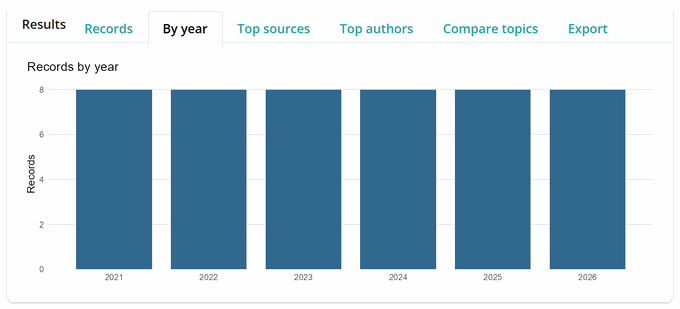
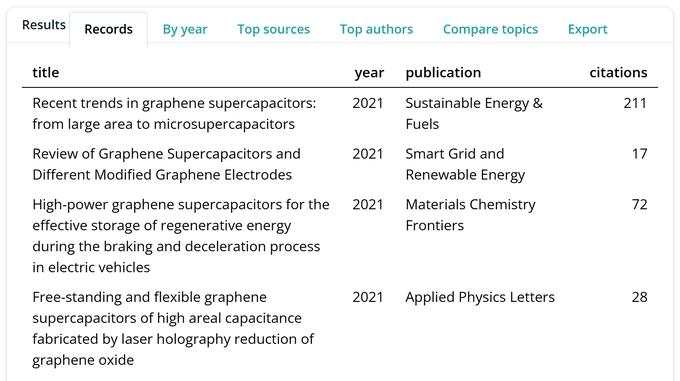
Deploying to gh-pages from @ pablobernabeu/scopusflow@21ac3db10a830e9ffe7ff9f6d52d5e032fd93961 🚀

diff --git a/articles/using-the-app.html b/articles/using-the-app.html
@@ -28,7 +28,7 @@
 
     <a class="navbar-brand me-2" href="../index.html">scopusflow</a>
 
-    <small class="nav-text text-muted me-auto" data-bs-toggle="tooltip" data-bs-placement="bottom" title="">0.2.1</small>
+    <small class="nav-text text-muted me-auto" data-bs-toggle="tooltip" data-bs-placement="bottom" title="">0.3.0</small>
 
 
     <button class="navbar-toggler" type="button" data-bs-toggle="collapse" data-bs-target="#navbar" aria-controls="navbar" aria-expanded="false" aria-label="Toggle navigation">
@@ -94,13 +94,7 @@
      left on, so they need no key and no network. Recapture them whenever the
      app's layout changes: unlike the figures in the other articles, which are
      drawn when the vignette is knitted, a static image of an interface drifts
-     silently.
-
-     OUTSTANDING: app-terminal.png and app-results.png still show the demo mode
-     as it was before it drew its records from the bundled example_records
-     corpus, so they carry the old size note and a row of identical by-year
-     bars. The alt text below describes the current behaviour; recapture both
-     images before the next site build. -->
+     silently. -->
 <p>Not every search starts in an editor. <code><a href="../reference/run_app.html">run_app()</a></code> opens a
 local Shiny app that drives the whole scopusflow workflow through a
 browser tab, from describing a search to exporting the records, without
@@ -183,12 +177,12 @@ stops the run cleanly. Under the surface the app builds a
 turned on, so an interrupted or quota-limited run picks up where it left
 off.</p>
 <div class="float">
-<img src="figures/app-terminal.png" alt="The Retrieval panel part-way through a demo-mode harvest. A note reads “Demo plan: 6 year-cells; would draw 57 records from the bundled corpus”, a label reads “Fetching cell 4 of 6” above a progress bar at 50%, and the expanded Live terminal below shows four lines, one per completed cell, each reading “Cell n/6: demo records for graphene supercapacitor” with the year."><div class="figcaption">The Retrieval panel part-way through a demo-mode
+<img src="figures/app-terminal.png" alt="The Retrieval panel part-way through a demo-mode harvest. A note reads “Demo plan: 6 year-cells; would draw 57 records from the bundled corpus”, a label reads “Fetching cell 4 of 6” above a progress bar at 50%, and the expanded Live terminal below shows four lines, one for each cell the run has reached, each reading “Cell n/6: demo records for graphene supercapacitor” with the year."><div class="figcaption">The Retrieval panel part-way through a demo-mode
 harvest. A note reads “Demo plan: 6 year-cells; would draw 57 records
 from the bundled corpus”, a label reads “Fetching cell 4 of 6” above a
 progress bar at 50%, and the expanded Live terminal below shows four
-lines, one per completed cell, each reading “Cell n/6: demo records for
-graphene supercapacitor” with the year.</div>
+lines, one for each cell the run has reached, each reading “Cell n/6:
+demo records for graphene supercapacitor” with the year.</div>
 </div>
 </div>
 <div class="section level2">
@@ -225,11 +219,14 @@ and Top authors tally the most frequent of each with
 figure is drawn by the same library functions you would call from a
 script, so the app shows you nothing you could not reproduce.</p>
 <div class="float">
-<img src="figures/app-results.png" alt="The Results panel with tabs for Records, By year, Top sources, Top authors, Compare topics and Export. The By year tab is open, showing a bar chart of records per year from 2021 to 2024 drawn from the demo harvest, the bars varying with the number of papers the bundled corpus holds for each year."><div class="figcaption">The Results panel with tabs for Records, By
-year, Top sources, Top authors, Compare topics and Export. The By year
-tab is open, showing a bar chart of records per year from 2021 to 2024
-drawn from the demo harvest, the bars varying with the number of papers
-the bundled corpus holds for each year.</div>
+<img src="figures/app-results.png" alt="The Results panel with tabs for Records, By year, Top sources, Top authors, Compare topics and Export. The Records tab is open, showing the first rows of a table of titles, years, journals and citation counts from the demo harvest. The first row reads “Recent trends in graphene supercapacitors: from large area to microsupercapacitors”, published in Sustainable Energy &amp; Fuels in 2021 with 211 citations, and the rows below it are likewise real articles from the bundled corpus."><div class="figcaption">The Results panel with tabs for Records, By
+year, Top sources, Top authors, Compare topics and Export. The Records
+tab is open, showing the first rows of a table of titles, years,
+journals and citation counts from the demo harvest. The first row reads
+“Recent trends in graphene supercapacitors: from large area to
+microsupercapacitors”, published in Sustainable Energy &amp; Fuels in
+2021 with 211 citations, and the rows below it are likewise real
+articles from the bundled corpus.</div>
 </div>
 </div>
 <div class="section level2">

diff --git a/news/index.html b/news/index.html
@@ -7,7 +7,7 @@
 
     <a class="navbar-brand me-2" href="../index.html">scopusflow</a>
 
-    <small class="nav-text text-muted me-auto" data-bs-toggle="tooltip" data-bs-placement="bottom" title="">0.2.1</small>
+    <small class="nav-text text-muted me-auto" data-bs-toggle="tooltip" data-bs-placement="bottom" title="">0.3.0</small>
 
 
     <button class="navbar-toggler" type="button" data-bs-toggle="collapse" data-bs-target="#navbar" aria-controls="navbar" aria-expanded="false" aria-label="Toggle navigation">
@@ -51,6 +51,24 @@
       <small>Source: <a href="https://github.com/pablobernabeu/scopusflow/blob/main/NEWS.md" class="external-link"><code>NEWS.md</code></a></small>
     </div>
 
+    <div class="section level2">
+<h2 class="pkg-version" data-toc-text="0.3.0" id="scopusflow-030">scopusflow 0.3.0<a class="anchor" aria-label="anchor" href="#scopusflow-030"></a></h2>
+<div class="section level3">
+<h3 id="the-bundled-example-records-0-3-0">The bundled example records<a class="anchor" aria-label="anchor" href="#the-bundled-example-records-0-3-0"></a></h3>
+<ul><li>
+<code>example_records</code> is now a worked example harvest of 138 real journal articles on graphene supercapacitors published between 2015 and 2024, carrying their real titles, DOIs, source titles, first authors and citation counts. It replaces the six invented records shipped previously.</li>
+<li>The records are not a ‘Scopus’ harvest and are not described as one. The Elsevier API terms do not permit redistributing retrieved records, so they come from OpenAlex, whose metadata is released under CC0, reshaped into the schema [<code><a href="../reference/scopus_fetch.html">scopus_fetch()</a></code>] returns. The reasoning is recorded in the design notes.</li>
+<li>The harvest is complete rather than sampled, so the rows per year are the real publications per year for that query. Eleven records carry no DOI and two no source title, kept as they arrive because a real harvest has such gaps.</li>
+<li>
+<code>scopus_id</code> is empty throughout, these records not having come from ‘Scopus’, so de-duplication falls back to the DOI as it does for any record whose identifier is missing.</li>
+</ul></div>
+<div class="section level3">
+<h3 id="documentation-0-3-0">Documentation<a class="anchor" aria-label="anchor" href="#documentation-0-3-0"></a></h3>
+<ul><li>Every vignette and example runs on that corpus, paired with the key-gated live call a reader would actually write, and the figures quoted in the prose were recomputed against the new data.</li>
+<li>The demo mode of <code><a href="../reference/run_app.html">run_app()</a></code> draws on the same corpus, so a first look at the app shows real articles rather than invented rows.</li>
+<li>The parser fixture in <code>inst/extdata</code> moves onto the reserved 10.5555 example prefix. It previously paired genuine, resolving DOIs with invented titles and authors, so a reader who checked one found a real paper mislabelled.</li>
+</ul></div>
+</div>
     <div class="section level2">
 <h2 class="pkg-version" data-toc-text="0.2.1" id="scopusflow-021">scopusflow 0.2.1<a class="anchor" aria-label="anchor" href="#scopusflow-021"></a></h2>
 <p>A documentation release. The vignettes now demonstrate several features that 0.2.0 shipped but did not show.</p>

diff --git a/articles/about.html b/articles/about.html
@@ -28,7 +28,7 @@
 
     <a class="navbar-brand me-2" href="../index.html">scopusflow</a>
 
-    <small class="nav-text text-muted me-auto" data-bs-toggle="tooltip" data-bs-placement="bottom" title="">0.2.1</small>
+    <small class="nav-text text-muted me-auto" data-bs-toggle="tooltip" data-bs-placement="bottom" title="">0.3.0</small>
 
 
     <button class="navbar-toggler" type="button" data-bs-toggle="collapse" data-bs-target="#navbar" aria-controls="navbar" aria-expanded="false" aria-label="Toggle navigation">
@@ -96,14 +96,14 @@
 <p>If you use scopusflow in published work, please cite it.</p>
 <blockquote>
 <p>Bernabeu, P. (2026). scopusflow: A reproducible workflow layer for
-‘Scopus’ bibliographic searches. R package version 0.2.1. <a href="https://doi.org/10.5281/zenodo.21252669" class="external-link uri">https://doi.org/10.5281/zenodo.21252669</a></p>
+‘Scopus’ bibliographic searches. R package version 0.3.0. <a href="https://doi.org/10.5281/zenodo.21252669" class="external-link uri">https://doi.org/10.5281/zenodo.21252669</a></p>
 </blockquote>
 <div class="citation-bibtex">
 <pre id="scopusflow-bibtex"><code>@Manual{scopusflow,
   title  = {{scopusflow}: A reproducible workflow layer for '{Scopus}' bibliographic searches},
   author = {Pablo Bernabeu},
   year   = {2026},
-  note   = {R package version 0.2.1},
+  note   = {R package version 0.3.0},
   doi    = {10.5281/zenodo.21252669},
   url    = {https://doi.org/10.5281/zenodo.21252669},
 }</code></pre>
@@ -111,7 +111,7 @@
 <button type="button" class="btn btn-primary btn-sm" onclick="scopusflowCopyBibtex(this)">
 Copy BibTeX
 </button>
-<a class="btn btn-outline-primary btn-sm" download="scopusflow.bib" href="data:application/x-bibtex;charset=utf-8,%40Manual%7Bscopusflow%2C%0A%20%20title%20%20%3D%20%7B%7Bscopusflow%7D%3A%20A%20reproducible%20workflow%20layer%20for%20%27%7BScopus%7D%27%20bibliographic%20searches%7D%2C%0A%20%20author%20%3D%20%7BPablo%20Bernabeu%7D%2C%0A%20%20year%20%20%20%3D%20%7B2026%7D%2C%0A%20%20note%20%20%20%3D%20%7BR%20package%20version%200.2.1%7D%2C%0A%20%20doi%20%20%20%20%3D%20%7B10.5281%2Fzenodo.21252669%7D%2C%0A%20%20url%20%20%20%20%3D%20%7Bhttps%3A%2F%2Fdoi.org%2F10.5281%2Fzenodo.21252669%7D%2C%0A%7D">Download
+<a class="btn btn-outline-primary btn-sm" download="scopusflow.bib" href="data:application/x-bibtex;charset=utf-8,%40Manual%7Bscopusflow%2C%0A%20%20title%20%20%3D%20%7B%7Bscopusflow%7D%3A%20A%20reproducible%20workflow%20layer%20for%20%27%7BScopus%7D%27%20bibliographic%20searches%7D%2C%0A%20%20author%20%3D%20%7BPablo%20Bernabeu%7D%2C%0A%20%20year%20%20%20%3D%20%7B2026%7D%2C%0A%20%20note%20%20%20%3D%20%7BR%20package%20version%200.3.0%7D%2C%0A%20%20doi%20%20%20%20%3D%20%7B10.5281%2Fzenodo.21252669%7D%2C%0A%20%20url%20%20%20%20%3D%20%7Bhttps%3A%2F%2Fdoi.org%2F10.5281%2Fzenodo.21252669%7D%2C%0A%7D">Download
 .bib</a>
 </p>
 </div>

diff --git a/authors.html b/authors.html
@@ -7,7 +7,7 @@
 
     <a class="navbar-brand me-2" href="index.html">scopusflow</a>
 
-    <small class="nav-text text-muted me-auto" data-bs-toggle="tooltip" data-bs-placement="bottom" title="">0.2.1</small>
+    <small class="nav-text text-muted me-auto" data-bs-toggle="tooltip" data-bs-placement="bottom" title="">0.3.0</small>
 
 
     <button class="navbar-toggler" type="button" data-bs-toggle="collapse" data-bs-target="#navbar" aria-controls="navbar" aria-expanded="false" aria-label="Toggle navigation">
@@ -63,12 +63,12 @@
       <h2 id="citation">Citation</h2>
       <p><small class="dont-index">Source: <a href="https://github.com/pablobernabeu/scopusflow/blob/main/inst/CITATION" class="external-link"><code>inst/CITATION</code></a></small></p>
 
-      <p>Bernabeu, P. (2026). scopusflow: A reproducible workflow layer for 'Scopus' bibliographic searches. R package version 0.2.1. https://doi.org/10.5281/zenodo.21252669</p>
+      <p>Bernabeu, P. (2026). scopusflow: A reproducible workflow layer for 'Scopus' bibliographic searches. R package version 0.3.0. https://doi.org/10.5281/zenodo.21252669</p>
       <pre>@Manual{,
   title = {{scopusflow}: A reproducible workflow layer for '{Scopus}' bibliographic searches},
   author = {Pablo Bernabeu},
   year = {2026},
-  note = {R package version 0.2.1},
+  note = {R package version 0.3.0},
   doi = {10.5281/zenodo.21252669},
   url = {https://doi.org/10.5281/zenodo.21252669},
 }</pre>

diff --git a/404.html b/404.html
@@ -30,7 +30,7 @@
 
     <a class="navbar-brand me-2" href="https://pablobernabeu.github.io/scopusflow/index.html">scopusflow</a>
 
-    <small class="nav-text text-muted me-auto" data-bs-toggle="tooltip" data-bs-placement="bottom" title="">0.2.1</small>
+    <small class="nav-text text-muted me-auto" data-bs-toggle="tooltip" data-bs-placement="bottom" title="">0.3.0</small>
 
 
     <button class="navbar-toggler" type="button" data-bs-toggle="collapse" data-bs-target="#navbar" aria-controls="navbar" aria-expanded="false" aria-label="Toggle navigation">

diff --git a/CODE_OF_CONDUCT.html b/CODE_OF_CONDUCT.html
@@ -7,7 +7,7 @@
 
     <a class="navbar-brand me-2" href="index.html">scopusflow</a>
 
-    <small class="nav-text text-muted me-auto" data-bs-toggle="tooltip" data-bs-placement="bottom" title="">0.2.1</small>
+    <small class="nav-text text-muted me-auto" data-bs-toggle="tooltip" data-bs-placement="bottom" title="">0.3.0</small>
 
 
     <button class="navbar-toggler" type="button" data-bs-toggle="collapse" data-bs-target="#navbar" aria-controls="navbar" aria-expanded="false" aria-label="Toggle navigation">

diff --git a/CONTRIBUTING.html b/CONTRIBUTING.html
@@ -7,7 +7,7 @@
 
     <a class="navbar-brand me-2" href="index.html">scopusflow</a>
 
-    <small class="nav-text text-muted me-auto" data-bs-toggle="tooltip" data-bs-placement="bottom" title="">0.2.1</small>
+    <small class="nav-text text-muted me-auto" data-bs-toggle="tooltip" data-bs-placement="bottom" title="">0.3.0</small>
 
 
     <button class="navbar-toggler" type="button" data-bs-toggle="collapse" data-bs-target="#navbar" aria-controls="navbar" aria-expanded="false" aria-label="Toggle navigation">

diff --git a/LICENSE.html b/LICENSE.html
@@ -7,7 +7,7 @@
 
     <a class="navbar-brand me-2" href="index.html">scopusflow</a>
 
-    <small class="nav-text text-muted me-auto" data-bs-toggle="tooltip" data-bs-placement="bottom" title="">0.2.1</small>
+    <small class="nav-text text-muted me-auto" data-bs-toggle="tooltip" data-bs-placement="bottom" title="">0.3.0</small>
 
 
     <button class="navbar-toggler" type="button" data-bs-toggle="collapse" data-bs-target="#navbar" aria-controls="navbar" aria-expanded="false" aria-label="Toggle navigation">

diff --git a/PULL_REQUEST_TEMPLATE.html b/PULL_REQUEST_TEMPLATE.html
@@ -7,7 +7,7 @@
 
     <a class="navbar-brand me-2" href="index.html">scopusflow</a>
 
-    <small class="nav-text text-muted me-auto" data-bs-toggle="tooltip" data-bs-placement="bottom" title="">0.2.1</small>
+    <small class="nav-text text-muted me-auto" data-bs-toggle="tooltip" data-bs-placement="bottom" title="">0.3.0</small>
 
 
     <button class="navbar-toggler" type="button" data-bs-toggle="collapse" data-bs-target="#navbar" aria-controls="navbar" aria-expanded="false" aria-label="Toggle navigation">

diff --git a/SECURITY.html b/SECURITY.html
@@ -7,7 +7,7 @@
 
     <a class="navbar-brand me-2" href="index.html">scopusflow</a>
 
-    <small class="nav-text text-muted me-auto" data-bs-toggle="tooltip" data-bs-placement="bottom" title="">0.2.1</small>
+    <small class="nav-text text-muted me-auto" data-bs-toggle="tooltip" data-bs-placement="bottom" title="">0.3.0</small>
 
 
     <button class="navbar-toggler" type="button" data-bs-toggle="collapse" data-bs-target="#navbar" aria-controls="navbar" aria-expanded="false" aria-label="Toggle navigation">

diff --git a/articles/analysing-a-literature.html b/articles/analysing-a-literature.html
@@ -28,7 +28,7 @@
 
     <a class="navbar-brand me-2" href="../index.html">scopusflow</a>
 
-    <small class="nav-text text-muted me-auto" data-bs-toggle="tooltip" data-bs-placement="bottom" title="">0.2.1</small>
+    <small class="nav-text text-muted me-auto" data-bs-toggle="tooltip" data-bs-placement="bottom" title="">0.3.0</small>
 
 
     <button class="navbar-toggler" type="button" data-bs-toggle="collapse" data-bs-target="#navbar" aria-controls="navbar" aria-expanded="false" aria-label="Toggle navigation">

diff --git a/articles/building-a-reference-set.html b/articles/building-a-reference-set.html
@@ -28,7 +28,7 @@
 
     <a class="navbar-brand me-2" href="../index.html">scopusflow</a>
 
-    <small class="nav-text text-muted me-auto" data-bs-toggle="tooltip" data-bs-placement="bottom" title="">0.2.1</small>
+    <small class="nav-text text-muted me-auto" data-bs-toggle="tooltip" data-bs-placement="bottom" title="">0.3.0</small>
 
 
     <button class="navbar-toggler" type="button" data-bs-toggle="collapse" data-bs-target="#navbar" aria-controls="navbar" aria-expanded="false" aria-label="Toggle navigation">